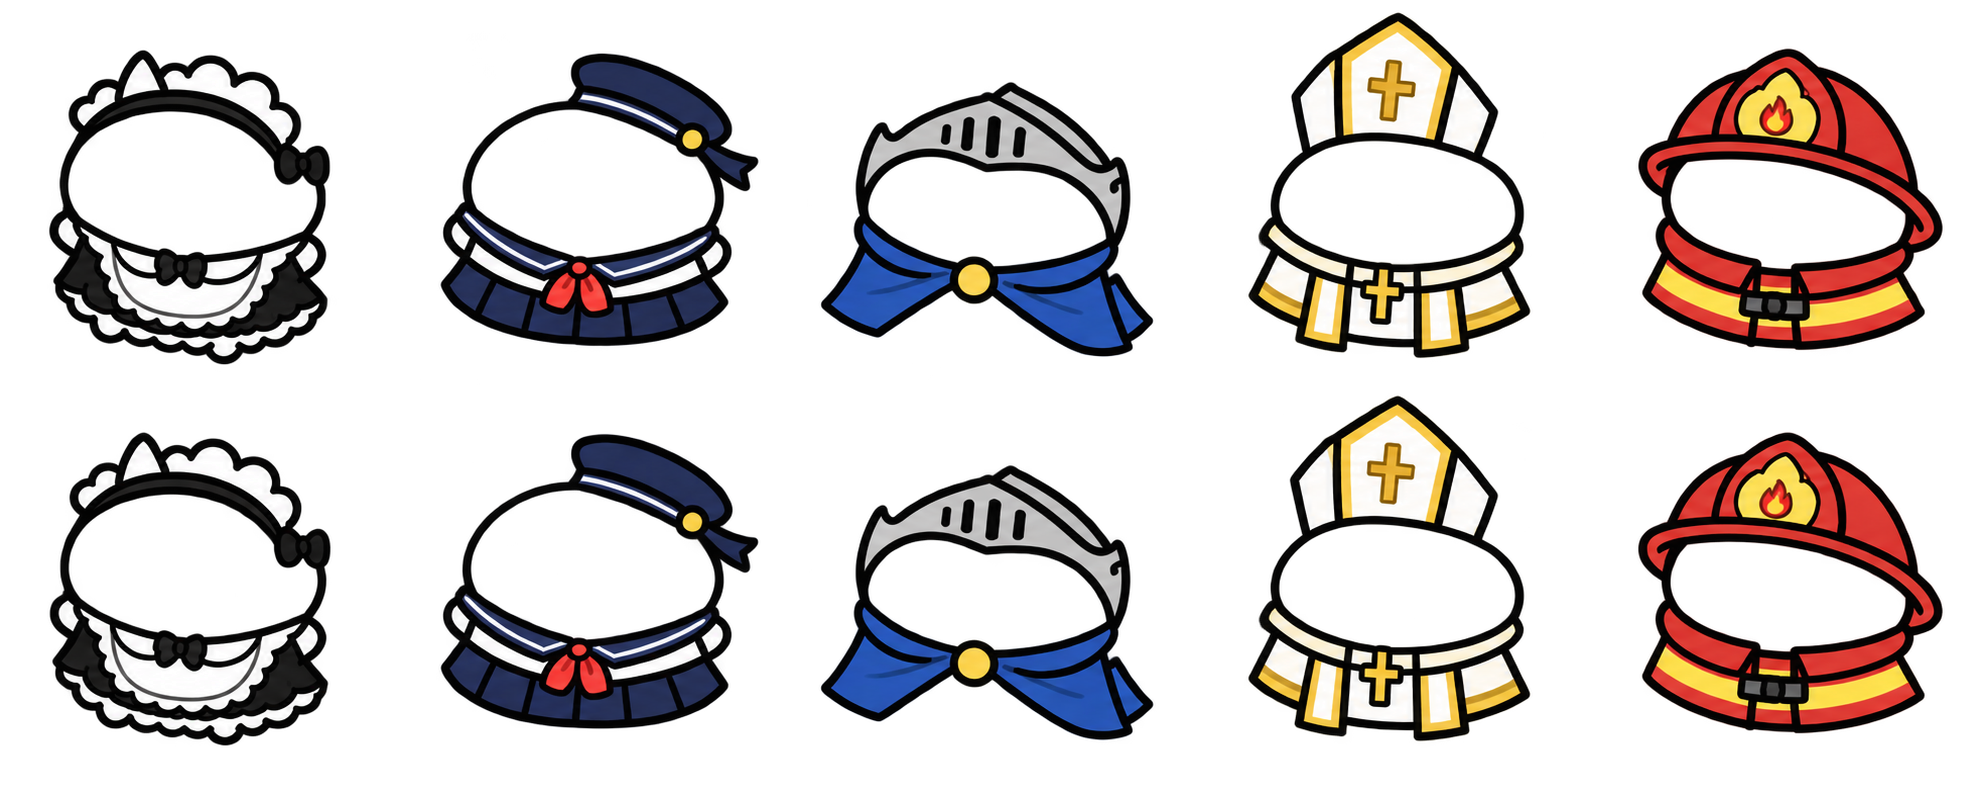
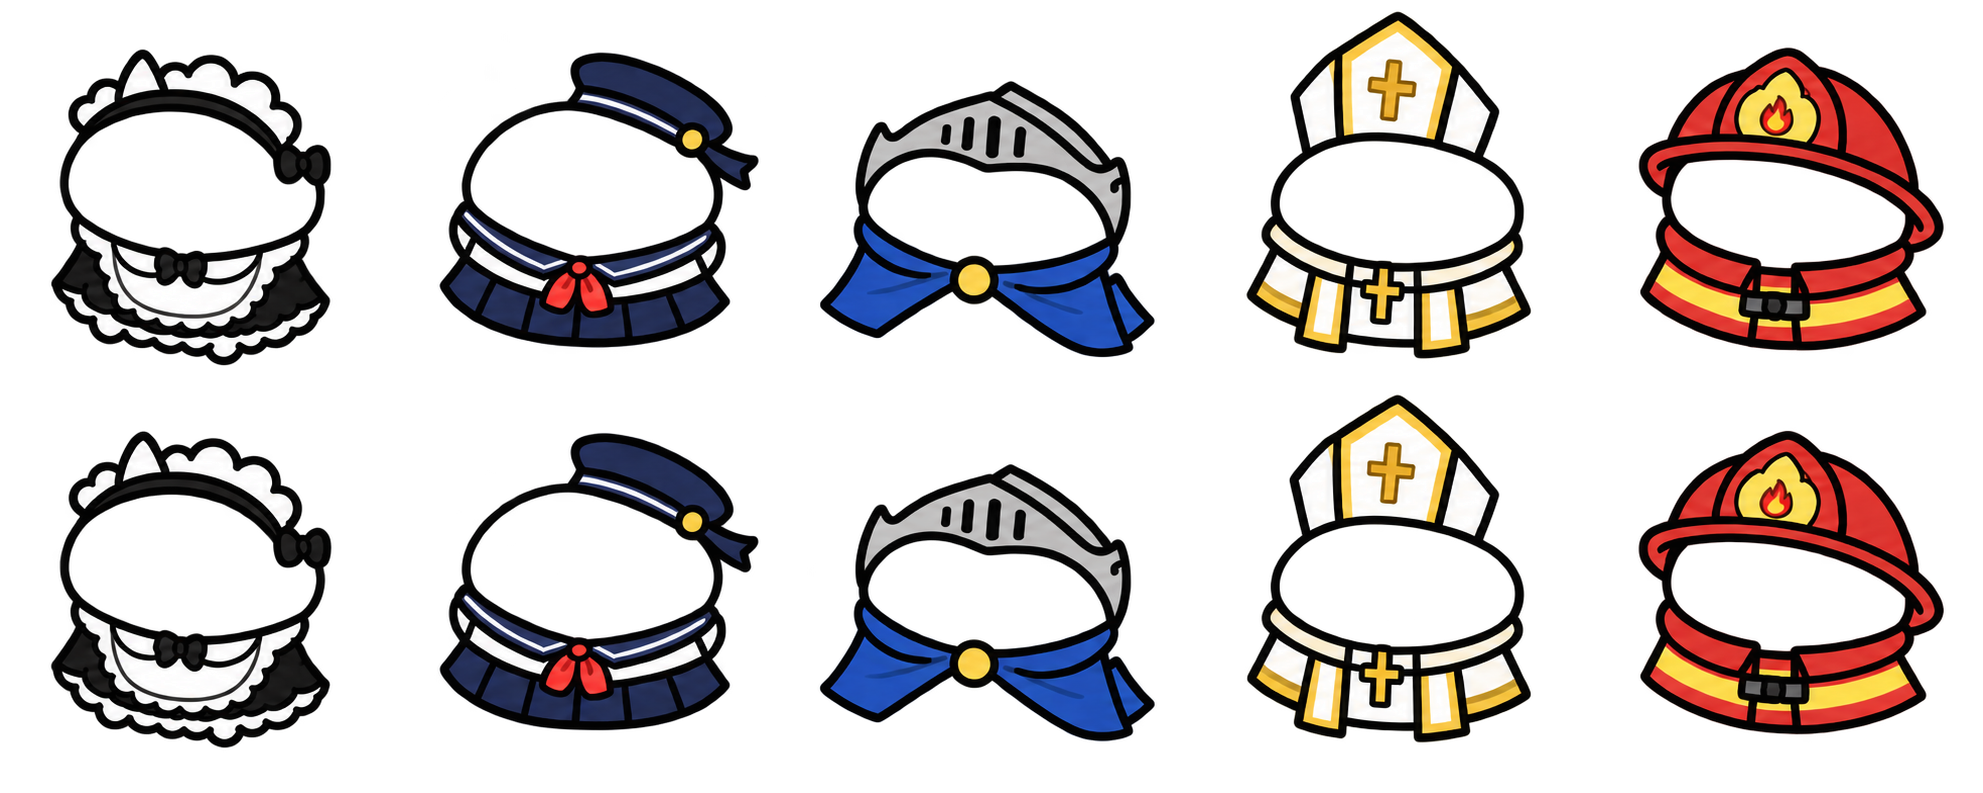
Complete costume previews and unify ticket gold and diamond reward absorption

diff --git a/Assets/DoodleIdle/Scripts/DoodleUi.RewardFlight.cs b/Assets/DoodleIdle/Scripts/DoodleUi.RewardFlight.cs
@@ -11,16 +11,42 @@ namespace DoodleIdle
 
         void FlyReward(Image source, string currency)
         {
-            Text wallet = currency == "Gold" ? walletGold : currency == "Diamond" ? walletDiamond : null;
-            if (!source || !wallet) return;
-            StartCoroutine(FlyRewardToWallet(source.sprite, source.rectTransform.TransformPoint(source.rectTransform.rect.center), wallet.rectTransform, currency));
+            var destination = RewardFlightDestination(currency);
+            if (!source || !destination) return;
+            StartCoroutine(FlyRewardToWallet(source.sprite, source.rectTransform.TransformPoint(source.rectTransform.rect.center), destination, currency));
+        }
+        RectTransform RewardFlightDestination(string currency)
+        {
+            if (currency == "Gold") return walletGold ? walletGold.rectTransform : null;
+            if (currency == "Diamond") return walletDiamond ? walletDiamond.rectTransform : null;
+            if (string.IsNullOrEmpty(currency) || !(currency.StartsWith("Ticket", System.StringComparison.Ordinal) || currency == "DungeonRelicTicket")) return null;
+            // Prefer the visible balance for this exact ticket. Reward cards and
+            // mission reward labels are not wallets and must not absorb tickets.
+            var sprite = UiKit.Art(currency);
+            foreach (var icon in root.GetComponentsInChildren<Image>()) {
+                if (icon.sprite != sprite || !icon.transform.parent || !RewardTargetVisible(icon.rectTransform)) continue;
+                string parent = icon.transform.parent.name;
+                if (parent == "Summon result tickets" || parent.StartsWith("Tickets: ", System.StringComparison.Ordinal)) return icon.rectTransform;
+            }
+            int shop = System.Array.IndexOf(pages, "Shop");
+            return shop >= 0 && shop < navIcons.Count && navIcons[shop] ? navIcons[shop].rectTransform : null;
+        }
+        bool RewardTargetVisible(RectTransform target)
+        {
+            if (!target.gameObject.activeInHierarchy) return false;
+            var camera = Canvas.renderMode == RenderMode.ScreenSpaceOverlay ? null : Canvas.worldCamera;
+            Vector2 point = RectTransformUtility.WorldToScreenPoint(camera, target.TransformPoint(target.rect.center));
+            if (!RectTransformUtility.RectangleContainsScreenPoint(root, point, camera)) return false;
+            foreach (var mask in target.GetComponentsInParent<RectMask2D>())
+                if (mask.isActiveAndEnabled && !RectTransformUtility.RectangleContainsScreenPoint(mask.rectTransform, point, camera)) return false;
+            return true;
         }
         IEnumerator FlyRewardToWallet(Sprite sprite, Vector3 origin, RectTransform destination, string currency)
         {
             var layer = UiKit.Rect(root, "Reward flight " + currency); UiKit.Stretch(layer);
             var icons = new Image[8];
             for (int i = 0; i < icons.Length; i++) {
-                var rect = UiKit.Rect(layer, "Flying " + currency); rect.sizeDelta = Vector2.one * (currency == "Diamond" ? 108 : 36);
+                var rect = UiKit.Rect(layer, "Flying " + currency); rect.sizeDelta = Vector2.one * 108;
                 icons[i] = rect.gameObject.AddComponent<Image>(); icons[i].sprite = sprite;
                 icons[i].preserveAspect = true; icons[i].raycastTarget = false; rect.position = origin;
             }

diff --git a/Assets/DoodleIdle/Tests/PlayMode/DoodleIdleLatestUiTests.cs b/Assets/DoodleIdle/Tests/PlayMode/DoodleIdleLatestUiTests.cs
@@ -74,11 +74,23 @@ namespace DoodleIdle.Tests
             Assert.That(UiNode("Bottom navigation").gameObject.activeInHierarchy, Is.True);
             Object.Destroy(CaptureFrame("latest-chat-window.png", 720, 1520)); ui.ClosePage();
             long gold = ui.Gold; int diamonds = ui.Diamonds;
-            ui.ShowRewards("획득!", new System.Collections.Generic.List<UiReward> { new UiReward { icon="Gold",amount=100 }, new UiReward { icon="Diamond",amount=100 } });
+            string[] ticketCategories = { "Armor", "Club", "Necklace", "Skill", "Companion", "Relic", "DungeonRelic" };
+            var ticketAmounts = ticketCategories.Select(ui.SummonTickets).ToArray();
+            var rewards = new System.Collections.Generic.List<UiReward> { new UiReward { icon="Gold",amount=100 }, new UiReward { icon="Diamond",amount=100 } };
+            foreach (string category in ticketCategories) rewards.Add(new UiReward { icon = DoodleUi.TicketIcon(category), amount = 10 });
+            ui.ShowRewards("획득!", rewards);
             DoodlePopupMotion.CompleteAll(UiRoot); Canvas.ForceUpdateCanvases();
             UiClick("Reward dim");
             Assert.That(UiNode("Reward flight Gold").childCount, Is.EqualTo(8));
             Assert.That(UiNode("Reward flight Diamond").childCount, Is.EqualTo(8));
+            foreach (var reward in rewards) {
+                var particles = UiNode("Reward flight " + reward.icon).GetComponentsInChildren<Image>();
+                Assert.That(particles.Length, Is.EqualTo(8), reward.icon);
+                foreach (var particle in particles) {
+                    Assert.That(particle.rectTransform.sizeDelta, Is.EqualTo(Vector2.one * 108), reward.icon + " matches diamond particle size");
+                    Assert.That(particle.sprite, Is.SameAs(UiKit.Art(reward.icon)));
+                }
+            }
             var flight = UiNode("Flying Diamond"); Vector3 start = flight.position;
             ui.CloseDetail();
             // Capture intermediate motion before a slow CI frame can finish the entire flight.
@@ -89,9 +101,17 @@ namespace DoodleIdle.Tests
             }
             Assert.That(moved || !flight, Is.True);
             Object.Destroy(CaptureFrame("latest-wallet-reward-flight.png", 720, 1520));
-            yield return new WaitForSecondsRealtime(1.1f);
+            yield return new WaitForSecondsRealtime(1.5f);
             Assert.That(UiRoot.GetComponentsInChildren<Transform>().Any(x => x.name.StartsWith("Reward flight")), Is.False);
             Assert.That(ui.Gold, Is.EqualTo(gold)); Assert.That(ui.Diamonds, Is.EqualTo(diamonds));
+            CollectionAssert.AreEqual(ticketAmounts, ticketCategories.Select(ui.SummonTickets).ToArray(), "Closing reward effects never grants the reward a second time.");
+            var destination = typeof(DoodleUi).GetMethod("RewardFlightDestination", GrowthPrivate);
+            UiOpen("Shop"); DoodlePopupMotion.CompleteAll(UiRoot); Canvas.ForceUpdateCanvases();
+            foreach (string category in ticketCategories) {
+                var target = (RectTransform)destination.Invoke(ui, new object[] { DoodleUi.TicketIcon(category) });
+                Assert.That(target, Is.Not.Null);
+                Assert.That(target.gameObject.activeInHierarchy, Is.True);
+            }
         }
 
         [UnityTest]

diff --git a/Assets/DoodleIdle/Scripts/DoodlePlayerCostumeArt.cs b/Assets/DoodleIdle/Scripts/DoodlePlayerCostumeArt.cs
@@ -32,6 +32,12 @@ namespace DoodleIdle
         static Rig rig;
         static readonly Sprite[] bodies = new Sprite[2];
         static readonly Dictionary<int, Sprite> frames = new Dictionary<int, Sprite>();
+        static readonly Dictionary<Texture2D, Pixels> sourcePixels = new Dictionary<Texture2D, Pixels>();
+        static Pixels ReadPixels(Texture2D texture)
+        {
+            if (!sourcePixels.TryGetValue(texture, out var pixels)) sourcePixels[texture] = pixels = new Pixels(texture);
+            return pixels;
+        }
         // Source-image pixel anchors, measured on the unchanged original cat frames.
         static readonly Vector2[] leftEyes = { new Vector2(199, 1254 - 227.5f), new Vector2(555, 1254 - 623) };
         static readonly Vector2[] rightEyes = { new Vector2(280.5f, 1254 - 253), new Vector2(765.5f, 1254 - 684) };
@@ -41,6 +47,7 @@ namespace DoodleIdle
         {
             foreach (var sprite in frames.Values) if (sprite) { UnityEngine.Object.Destroy(sprite.texture); UnityEngine.Object.Destroy(sprite); }
             frames.Clear();
+            sourcePixels.Clear();
             for (int i = 0; i < bodies.Length; i++) { if (bodies[i]) UnityEngine.Object.Destroy(bodies[i]); bodies[i] = null; }
             rig = null;
         }
@@ -70,8 +77,8 @@ namespace DoodleIdle
             var placement = rig.poses[key];
             var body = BodyFrame(pose);
             var clothing = Resources.Load<Texture2D>("DoodleIdle/UI/" + placement.sheet);
-            var bodyPixels = new Pixels(body.texture);
-            var coatPixels = new Pixels(clothing);
+            var bodyPixels = ReadPixels(body.texture);
+            var coatPixels = ReadPixels(clothing);
             Rect coatRect = new Rect(placement.x, placement.y, placement.width, placement.height);
             Vector2 eye = (leftEyes[pose] + rightEyes[pose]) * .5f;
             Vector2 origin = (eye - body.rect.center) / body.pixelsPerUnit;
@@ -103,7 +110,7 @@ namespace DoodleIdle
                 result.a = alpha; output[y * width + x] = result;
             }
             var texture = new Texture2D(width, height, TextureFormat.RGBA32, false) { name = "Costume " + costume + " pose " + pose, filterMode = FilterMode.Bilinear, wrapMode = TextureWrapMode.Clamp };
-            texture.SetPixels32(output); texture.Apply(false, false);
+            texture.SetPixels32(output); texture.Apply(false, !Application.isEditor);
             var frame = Sprite.Create(texture, new Rect(0, 0, width, height), new Vector2(-min.x / (max.x - min.x), -min.y / (max.y - min.y)), ppu, 0, SpriteMeshType.FullRect);
             frame.name = "Skin SkinAppearance_" + costume + "_" + pose;
             frames[key] = frame; return frame;

diff --git a/Assets/DoodleIdle/Scripts/DoodleSkinPortrait.cs b/Assets/DoodleIdle/Scripts/DoodleSkinPortrait.cs
@@ -5,6 +5,7 @@ namespace DoodleIdle
 {
     // All inventory/preview portraits share a body scale. Hats consume extra space
     // instead of changing the size of the face inside the card.
+    [RequireComponent(typeof(CanvasRenderer))]
     public sealed class DoodleSkinPortrait : MaskableGraphic
     {
         public bool Animate;

diff --git a/Documentation/UI/equipment-skins-growth.md b/Documentation/UI/equipment-skins-growth.md
@@ -2,7 +2,7 @@
 
 - 일반 스테이지의 기존 100마리 목표는 50마리로 변경. 돌파 ON 1~99스테이지는 20마리, 100스테이지부터 50마리.
 - 목걸이 36종 추가. 같은 등급·번호·강화의 갑옷이 더하는 체력의 5%를 초당 기본 회복량에 더하고 회복 보유 배율 적용.
-- 갑옷과 목걸이의 골드 증가량은 보유 효과. 장착 여부나 남은 복사본 수와 무관하게 발견한 장비의 강화 단계에 따라 반영.
+- 갑옷과 목걸이의 골드 보유 효과는 제거. 갑옷은 체력, 목걸이는 체력 회복 효과를 유지.
 - 치명 확률 2→4→8→16→32→64→128배. 이전 단계를 만렙으로 만들어야 다음 단계 강화 가능. 다음 단계 첫 가격은 이전 단계 마지막 강화 가격, 이후 증가율은 2배 치명 확률의 마지막 증가율. 성공한 치명 중 가장 높은 단계만 적용.
 - 뽑기 결과 상단에서 해당 뽑기권과 다이아 잔액 표시. 다이아 수량과 비용은 쉼표가 있는 원래 정수로 표시.
 - 결과 하단에 연출 스킵은 왼쪽, ×1/×10/×100/×1000은 오른쪽. 유료 10회/50회 버튼의 횟수와 가격을 함께 배율 적용. 무료 5회는 별도 유지.
@@ -10,7 +10,7 @@
 - 외형 20종과 무기 20종, 기본 스킨 각 1종 별도. 100~2,000스테이지 클리어 기록으로 순서대로 해금 가능하며, 해금 버튼을 눌러야 획득.
 - 외형 스킨 한 종류 보유당 골드 +50%, 무기 스킨 한 종류 보유당 공격력 +50%. 같은 분류의 보유 효과는 합산, 장비·스킬·동료·유물·스킨 분류 사이에는 곱셈. 장착 스킨을 바꿔도 보유 효과 유지.
 - 기존 스킨 ID는 첫 다섯 테마에 유지하여 기존 보유/장착 저장 데이터를 이어받음.
-- 코스튬은 기존 먼지고양이의 얼굴과 둥근 실루엣을 유지. 걷기 두 컷의 팔다리 수와 프레임 크기를 일치시킴.
+- 코스튬은 기본 먼지고양이 원본 두 컷 위에 의상만 겹침. 얼굴·몸·팔다리와 원점/몸 크기를 그대로 유지하며 큰 모자는 몸을 축소하지 않고 위로 확장. 선택 미리보기 역시 두 컷과 공통 몸 크기 사용.
 - 건담 테마는 최종 요청에 따라 분홍돼지/돼지코 망치로 교체. 얼음·불꽃 지팡이는 떨어진 조각 없이 한 덩어리 실루엣.
 
 ## 스킨 이름과 해금 단계
@@ -115,3 +115,11 @@
 - 기존 저장 파일 및 밸런스 편집은 보존. 오류 후 로그에서 새 에셋 재임포트와 컴파일 완료를 확인.
 
 - 수정 코드 `6686de3`: [CI 36041551727](https://github.com/kuzuni/20260920/actions/runs/36041551727), **5/5 통과** (42.948초). 36종 연결 검사, 장비 효과, 전체 스킬 테스트 발동, 기본 공격 토글 및 창 리페인트 확인. 최신 [게임 화면](equipment-skins/necklace-equipment.png)으로 교체하고 시각 검토 완료.
+
+## 원본 플레이어 기반 의상 및 보상 흡수 효과 수정
+
+- `DoodlePlayerCostumeArt`가 원본 `Characters`의 플레이어 컷과 `PlayerWalkB`에 의상 전용 투명 레이어를 합성. `PlayerCostumeRig.json`의 눈 위치 기준으로 옷을 배치하며 모자·망토의 전체 범위로 몸을 정규화하지 않음.
+- 전투에서 스킨을 별도 최대 크기로 다시 정규화하던 경로 제거. 기본 플레이어와 같은 이동 시계, 6회/초 프레임 전환, 정지 시 0번 컷, 흔들림/기울기를 사용.
+- 스킨 목록 및 선택 미리보기에 공통 몸 크기를 사용하는 그래픽 적용. 선택 미리보기에는 두 컷 애니메이션 표시. [내장 이미지 생성 프롬프트와 원본](costume-overlay-prompts.json).
+- 갑옷/목걸이 72종의 추가 골드 보유 값 제거. 과거 값이 남아 있어도 계산과 장비 설명에 반영되지 않도록 차단.
+- 보상 팝업을 닫을 때 모든 뽑기권을 포함하여 흡수 효과 발생. 표시 중인 해당 뽑기권 잔액 또는 상점 버튼으로 이동. 골드·다이아·뽑기권 모두 입자 8개, 기본 크기 108 및 동일한 축소 곡선을 사용. 보상 지급과 연출을 분리하여 재지급 없음.
